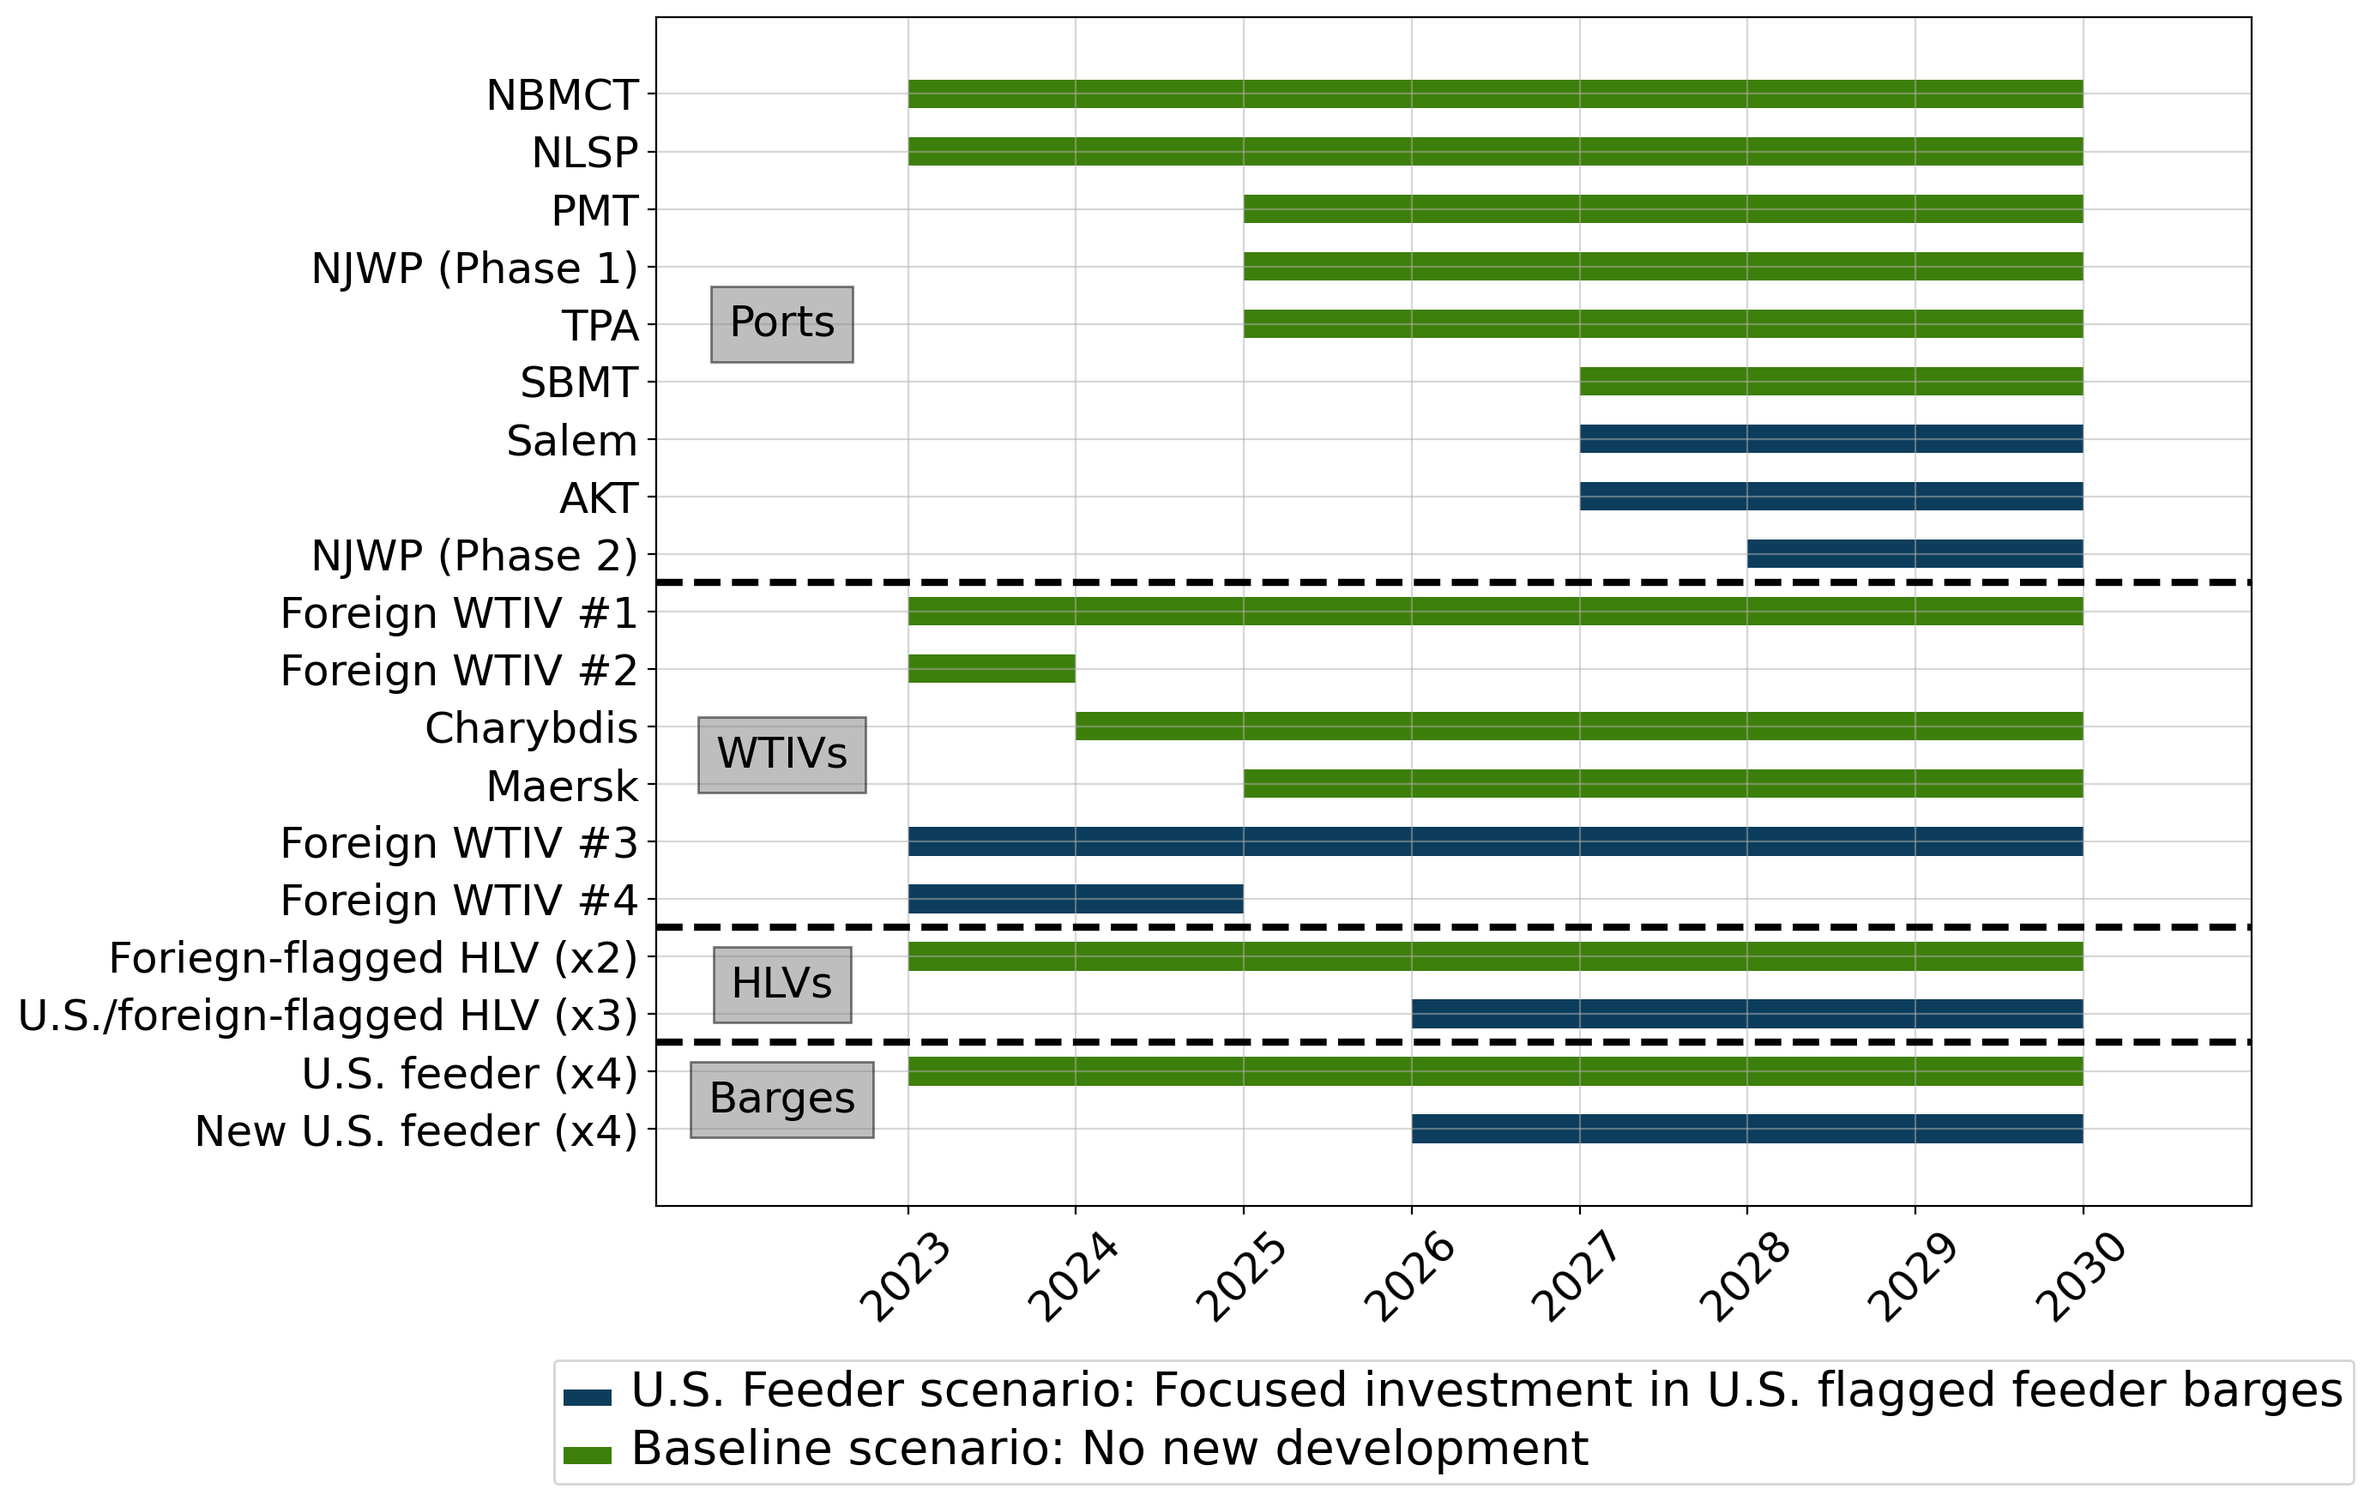
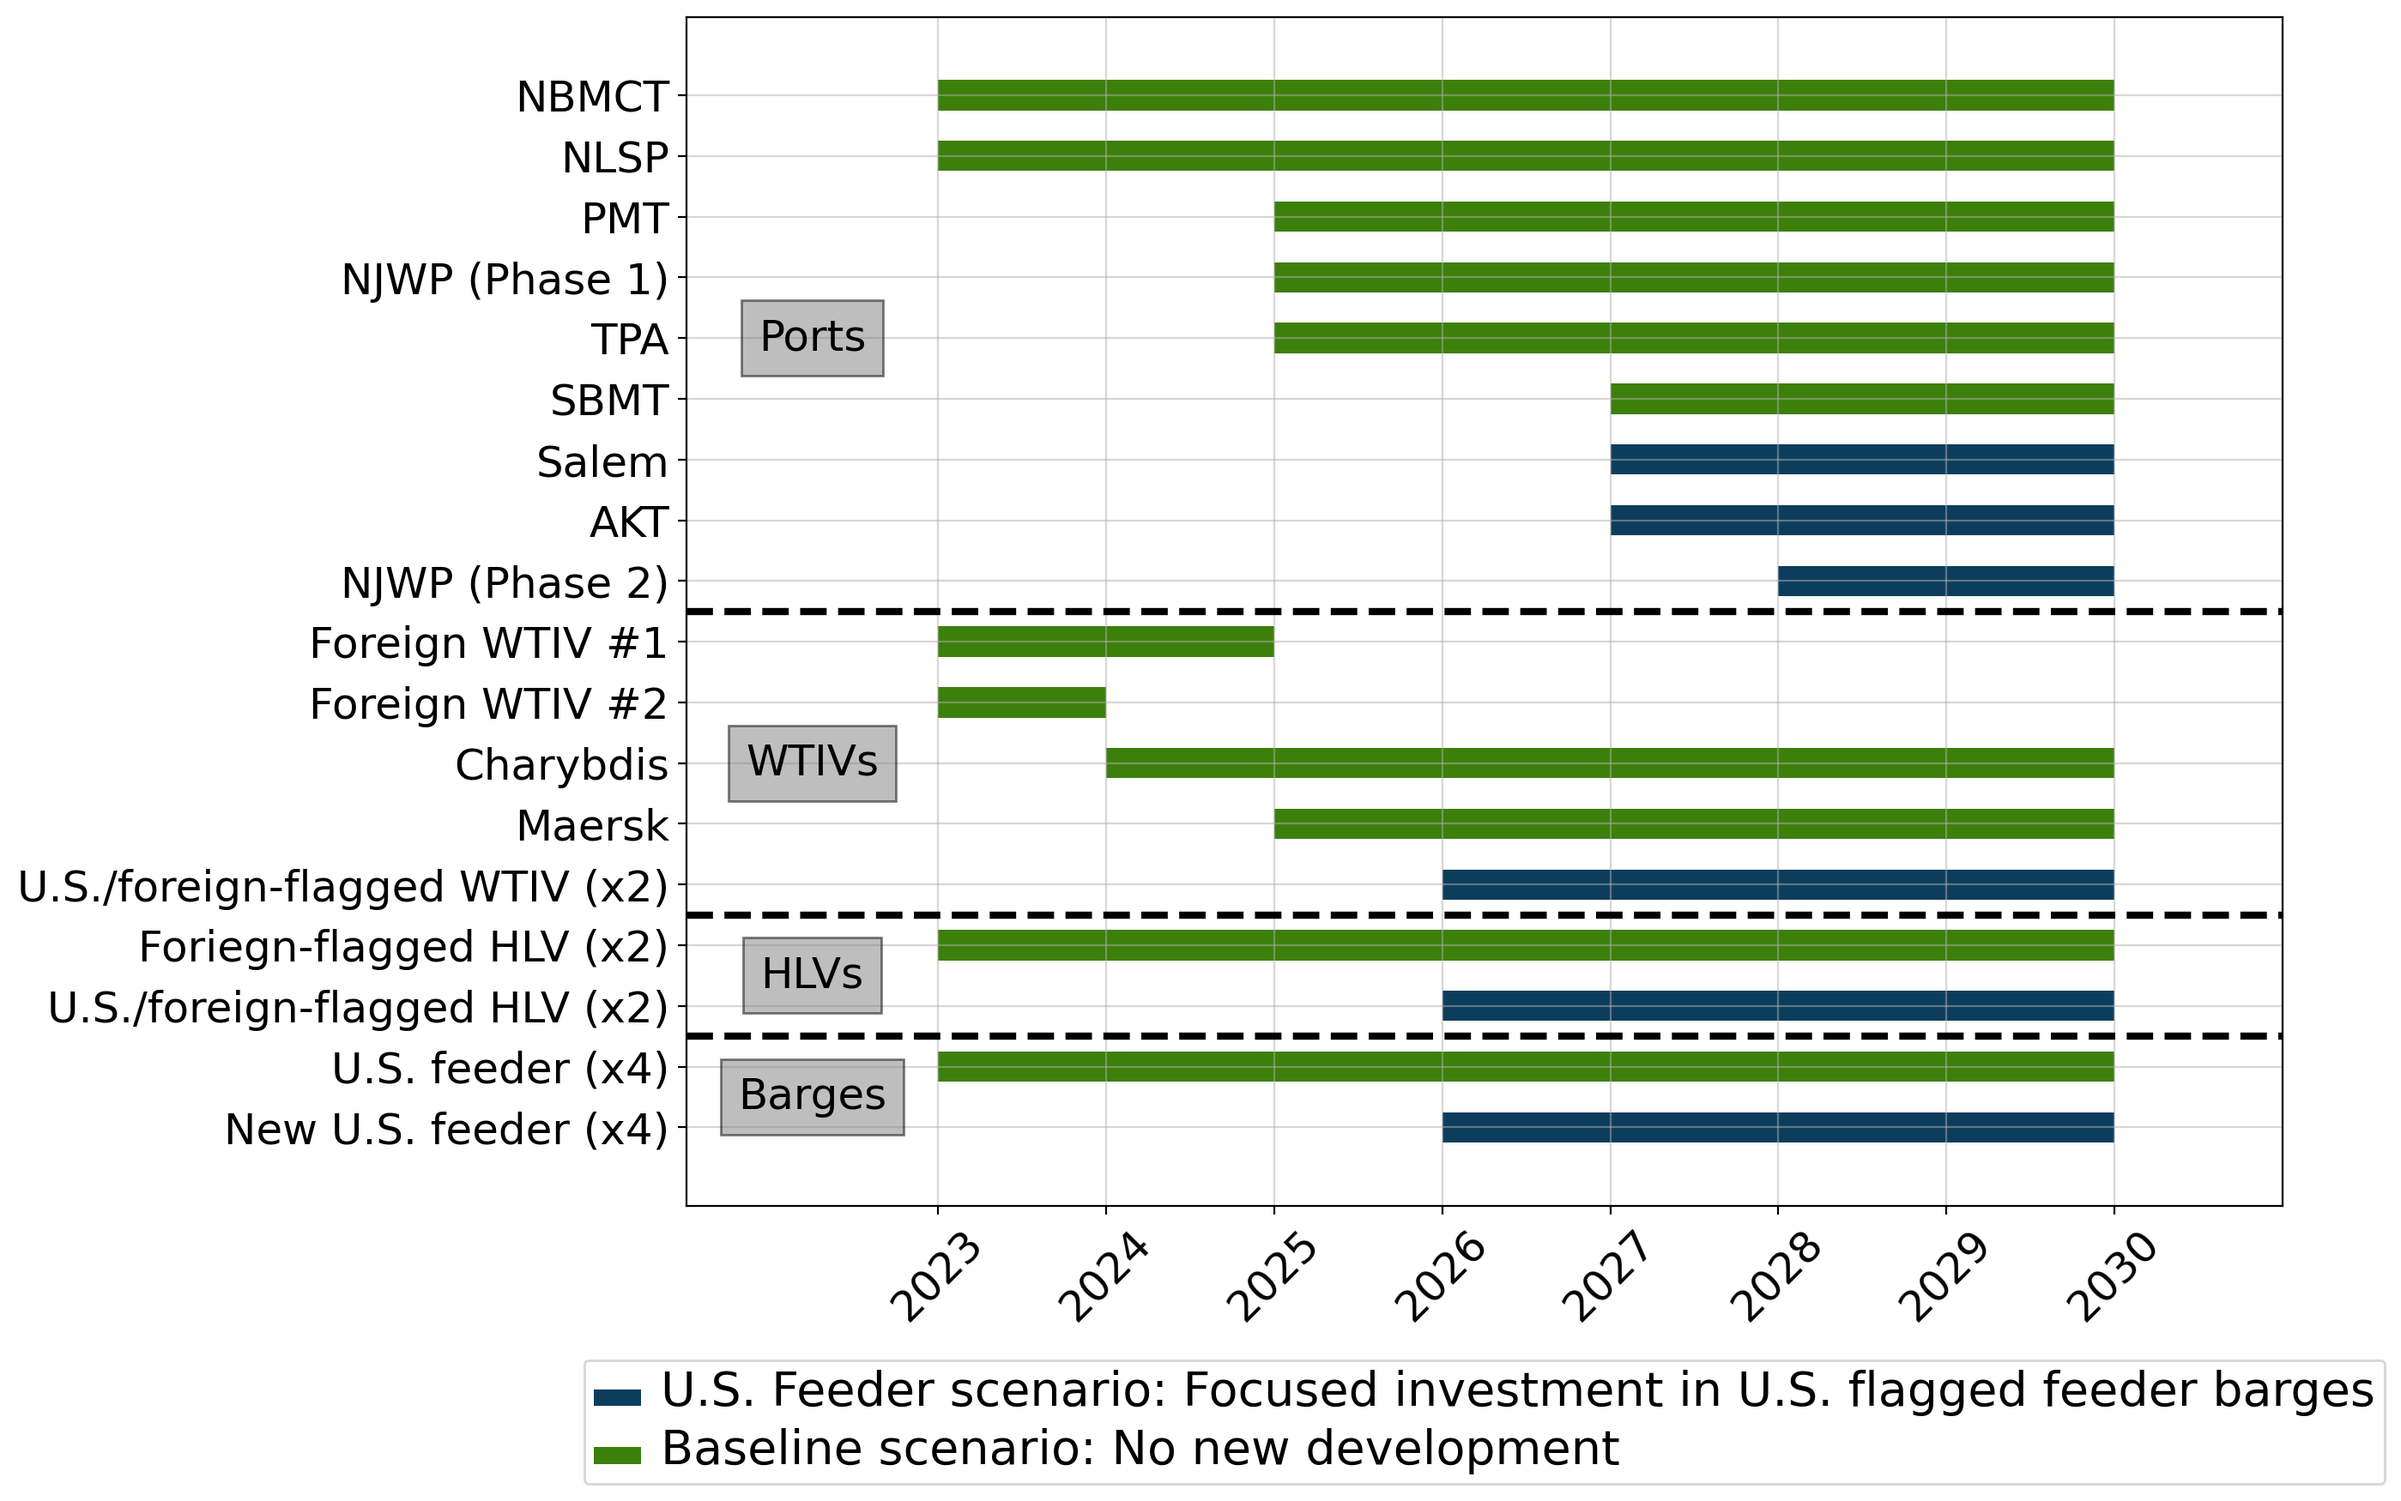
Bugfix in port/vessel gantts

diff --git a/additional_plots.py b/additional_plots.py
@@ -6,7 +6,7 @@ from helpers import color_list
 
 dir_ind_jobs = False
 workforce_plots = True
-port_vessel_plots = False
+port_vessel_plots = True
 
 if __name__ == '__main__':
     ##### Gaps assessment slide deck
@@ -167,7 +167,7 @@ if __name__ == '__main__':
                     },
                 'WTIVs': {
                     'Baseline': {
-                        'Foreign-flagged WTIV #1': {'start': 2023, 'end': 2030, 'invest': 0},
+                        'Foreign-flagged WTIV #1': {'start': 2023, 'end': 2025, 'invest': 0},
                         'Foreign-flagged WTIV #2': {'start': 2023, 'end': 2024, 'invest': 0},
                         'Charybdis': {'start': 2024, 'end': 2030, 'invest': 500},
                         'Maersk': {'start': 2025, 'end': 2030, 'invest': 500},
@@ -204,18 +204,17 @@ if __name__ == '__main__':
                     },
                 'WTIVs': {
                     'Baseline': {
-                        'Foreign WTIV #1': {'start': 2023, 'end': 2030, 'invest': 0},
+                        'Foreign WTIV #1': {'start': 2023, 'end': 2025, 'invest': 0},
                         'Foreign WTIV #2': {'start': 2023, 'end': 2024, 'invest': 0},
                         'Charybdis': {'start': 2024, 'end': 2030, 'invest': 500},
                         'Maersk': {'start': 2025, 'end': 2030, 'invest': 500},
                     },
                     'Scenario': {
-                        'Foreign WTIV #3': {'start': 2023, 'end': 2030, 'invest':0},
-                        'Foreign WTIV #4': {'start': 2023, 'end': 2025, 'invest':500},}
+                        'U.S./foreign-flagged WTIV (x2)': {'start': 2026, 'end': 2030, 'invest':0},}
                     },
                 'HLVs': {
                     'Baseline': {'Foriegn-flagged HLV (x2)': {'start': 2023, 'end': 2030, 'invest': 0},},
-                    'Scenario': {'U.S./foreign-flagged HLV (x3)': {'start': 2026, 'end': 2030, 'invest': 1050},
+                    'Scenario': {'U.S./foreign-flagged HLV (x2)': {'start': 2026, 'end': 2030, 'invest': 1050},
                         },
                     },
                 'Feeder barges':{

diff --git a/plot_routines.py b/plot_routines.py
@@ -288,7 +288,7 @@ def plot_cumulative(x, y1, y2, y3, y4, components, color_list, ylabel, fname=Non
     if ymax is not None:
         ax.set_ylim([0,ymax])
 
-
+    ax.set_xlim([2020,2030])
     # ax.set_xticklabels(components, rotation=90)
 
     ax.set_xlabel('Manufacturing date')
